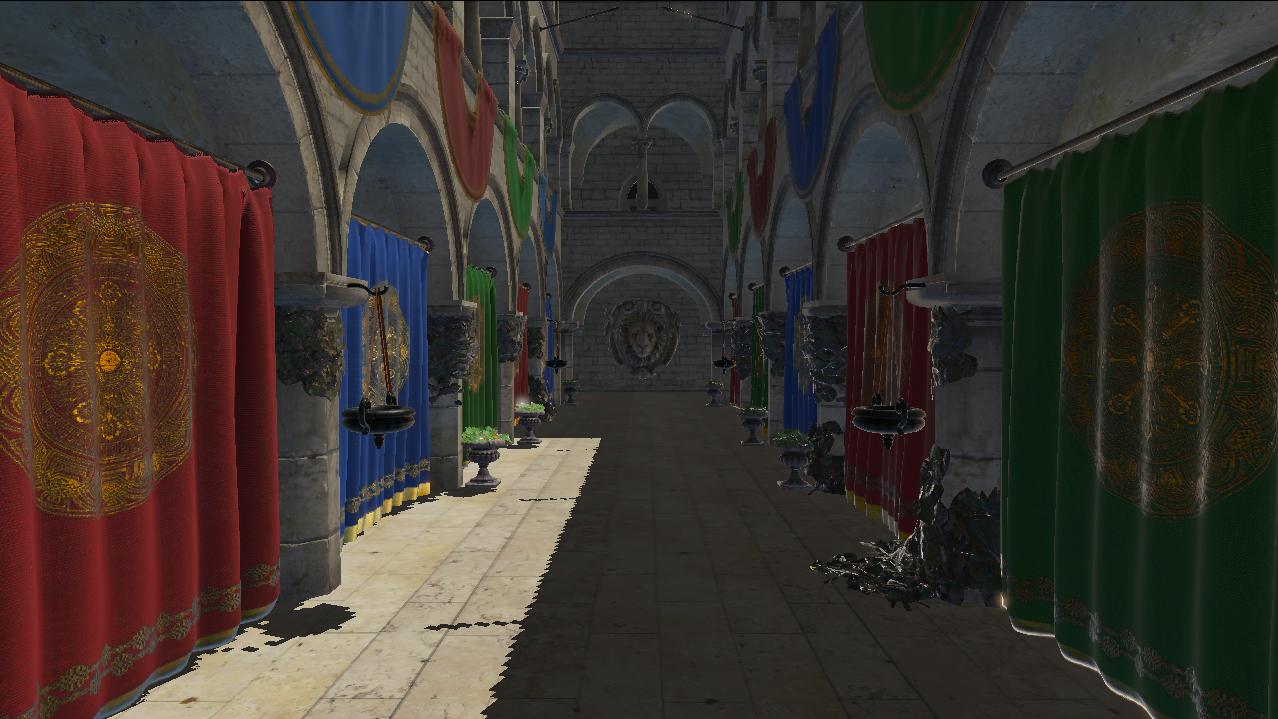
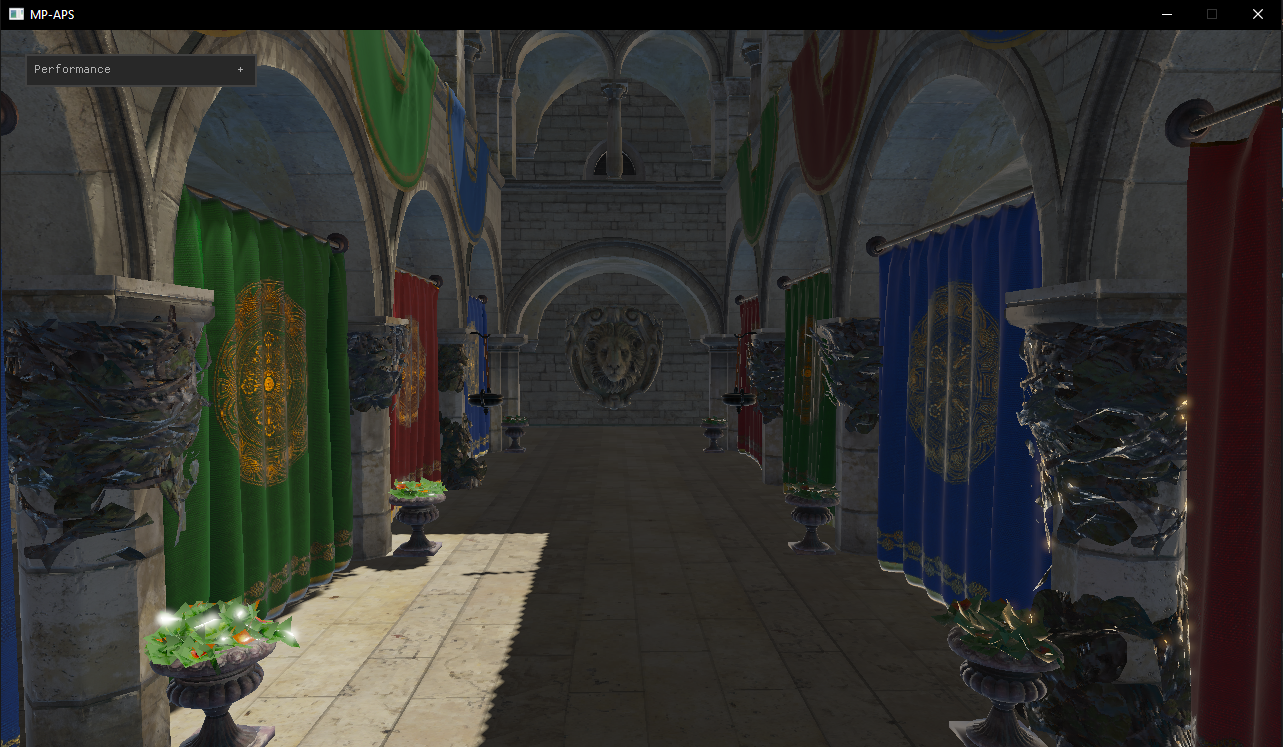
Update images and README

diff --git a/README.md b/README.md
@@ -20,6 +20,9 @@ Physically Based Rendering:
 ![PBR](https://github.com/htmlboss/OpenGL-Renderer/blob/master/MP-APS/img/03.png "Physically Based Rendering")
 ![PBR](https://github.com/htmlboss/OpenGL-Renderer/blob/master/MP-APS/img/04.png "Physically Based Rendering")
 
+Image Based Lighting (IBL):
+![IBL](https://github.com/htmlboss/OpenGL-Renderer/blob/master/MP-APS/img/06.png "Image Based Lighting (IBL)")
+
 Bloom:
 ![Bloom](https://github.com/htmlboss/OpenGL-Renderer/blob/master/MP-APS/img/05.png "Bloom")
 
@@ -36,7 +39,7 @@ Bloom:
 * Physically-based rendering.
 
 ## WIP
-* Shadow mapping.
+* Variance shadow mapping (soft shadows).
 * Depth-buffer optimization ([https://outerra.blogspot.ca/2012/11/maximizing-depth-buffer-range-and.html](https://outerra.blogspot.ca/2012/11/maximizing-depth-buffer-range-and.html)).
 
 ## Roadmap
@@ -71,4 +74,5 @@ Bloom:
 * _Forward+: Bringing Deferred Lighting to the Next Level_ ([https://takahiroharada.files.wordpress.com/2015/04/forward_plus.pdf](https://takahiroharada.files.wordpress.com/2015/04/forward_plus.pdf)). Harada, McKee, Yang (2012).
 * _Solid Wireframe_ ([http://developer.download.nvidia.com/SDK/10/direct3d/Source/SolidWireframe/Doc/SolidWireframe.pdf](http://developer.download.nvidia.com/SDK/10/direct3d/Source/SolidWireframe/Doc/SolidWireframe.pdf)). Nvidia (2007).
 * _Physically Based Rendering_ ([https://learnopengl.com/#!PBR/IBL/Specular-IBL](https://learnopengl.com/#!PBR/IBL/Specular-IBL))
+* _Variance Shadow Mapping_ ([http://developer.download.nvidia.com/SDK/10.5/direct3d/Source/VarianceShadowMapping/Doc/VarianceShadowMapping.pdf](http://developer.download.nvidia.com/SDK/10.5/direct3d/Source/VarianceShadowMapping/Doc/VarianceShadowMapping.pdf))
 * _Tessellated Terrain Rendering with Dynamic LOD_ ([http://victorbush.com/2015/01/tessellated-terrain/](http://victorbush.com/2015/01/tessellated-terrain/))
